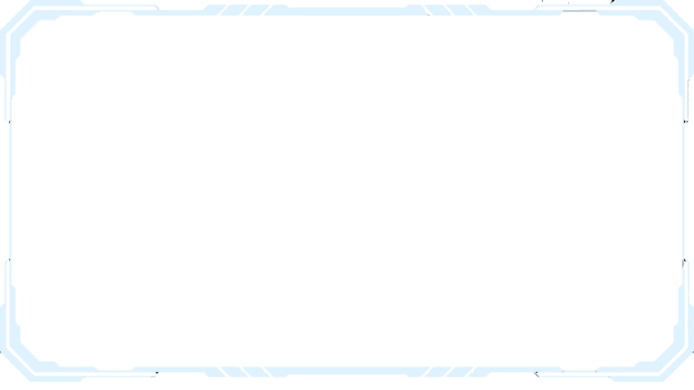
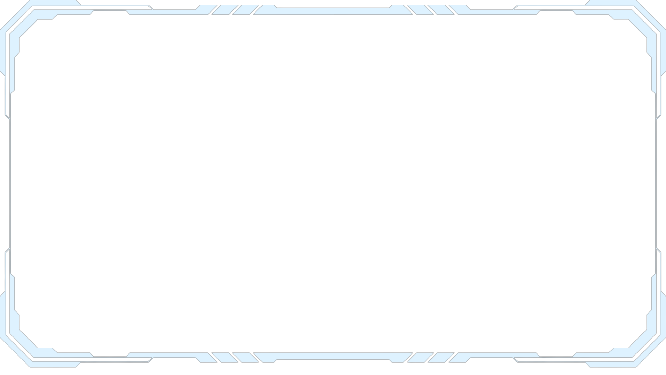
update scale of window

diff --git a/Rock-Paper-Scissors-Classification/main.py b/Rock-Paper-Scissors-Classification/main.py
@@ -14,6 +14,7 @@ from constants import model_path, model_weights_path
 from constants import rectangle_color, text_color
 from constants import computer_gestures
 from constants import BG_path
+from constants import FRM_path
 from constants import font
 
 
@@ -83,9 +84,14 @@ class WebCam:
         while cap.isOpened():
 
             imgBG = cv2.imread(BG_path)
-            # imgFrm = cv2.imread(BG_path)
+            imgBG = cv2.resize(imgBG, (1366,768))
+
+            imgFRM = cv2.imread(FRM_path, cv2.IMREAD_UNCHANGED)
+            imgFRM = cv2.resize(imgFRM, (732,412)) 
+
+
             ret, frame = cap.read()
-            frame = cv2.resize(frame,(0,0),None,0.7402, 0.7402)
+            frame = cv2.resize(frame,(0,0),None,0.526, 0.526)
 
             gesture, percent = cls.model.predict(frame)
             cls.create_rectangle(frame)
@@ -100,8 +106,8 @@ class WebCam:
 
                     person_gesture = Gesture(gesture)
                     image = cv2.imread(computer_gestures[computer_gesture.name], cv2.IMREAD_UNCHANGED)
-                    image = cv2.resize(image, (400, 400))
-                    imgBG = cvzone.overlayPNG(imgBG, image, (1340, 310))
+                    image = cv2.resize(image, (284, 284))
+                    imgBG = cvzone.overlayPNG(imgBG, image, (953, 220))
 
                     # x_offset, y_offset = (1340, 310)
                     # imgBG[y_offset:y_offset + image.shape[0], x_offset:x_offset + image.shape[1]] = image
@@ -115,8 +121,8 @@ class WebCam:
                         rounds_ += 1
 
                     else:
-                        cls.create_text(imgBG, f"{result_}", org=(895, 900), color=(0, 128, 255), font_scale=2)
-                        cls.create_text(frame, f"{gesture} {percent}%", org=(250, 80),font = cv2.FONT_HERSHEY_DUPLEX ,font_scale=1)
+                        cls.create_text(imgBG, f"{result_}", org=(620, 640), color=(0, 128, 255), font_scale=2)
+                        cls.create_text(frame, f"{gesture} {percent}%", org=(181, 57),font = cv2.FONT_HERSHEY_DUPLEX ,font_scale= 0.8)
 
                     frames_elapsed += 1
             else:
@@ -125,13 +131,17 @@ class WebCam:
                 frames_elapsed = 0
                 rounds = rounds_
 
-            cls.create_text(frame, f"frames: {frames_elapsed}", org=(10, 500),font = cv2.FONT_HERSHEY_DUPLEX ,color=(255, 255, 255),
+            cls.create_text(frame, f"frames: {frames_elapsed}", org=(7, 356),font = cv2.FONT_HERSHEY_DUPLEX ,color=(255, 255, 255),
                             font_scale=1, thickness=2)
             # cls.create_text(frame, f"Round: {rounds}", org=(150, 50), color=(255, 0, 0))
             # cls.create_text(frame, f"Person: {scores[0]}", org=(100, 310), color=(255, 0, 0))
             # cls.create_text(frame, f"Computer: {scores[1]}", org=(350, 310), color=(255, 0, 0))           
-                      
-            imgBG[256:789, 150:1097] = frame   # y1:y2 , x1:x2
+            
+                             
+            imgBG[182:561, 107:780] = frame   # y1:y2 , x1:x2
+            imgBG = cvzone.overlayPNG(imgBG, imgFRM, (78, 171))    
+            
+
             cv2.imshow('BG', imgBG)      
             # cv2.imshow('Rock Paper Scissors!', frame)
             

diff --git a/Rock-Paper-Scissors-Classification/constants.py b/Rock-Paper-Scissors-Classification/constants.py
@@ -1,11 +1,12 @@
 import cv2
 
-x, y, w, h = 470, 100, 170, 170
+x, y, w, h = 334, 71, 121, 121
 
 model_path = "Testmodel/model2/model2.json"
 model_weights_path = "Testmodel/model2/best_weights.h5"
 
 BG_path = "src/BG.png"
+FRM_path = "src/frame.png"
 
 rectangle_color = (153, 76, 0)
 text_color = (153, 76, 0)
